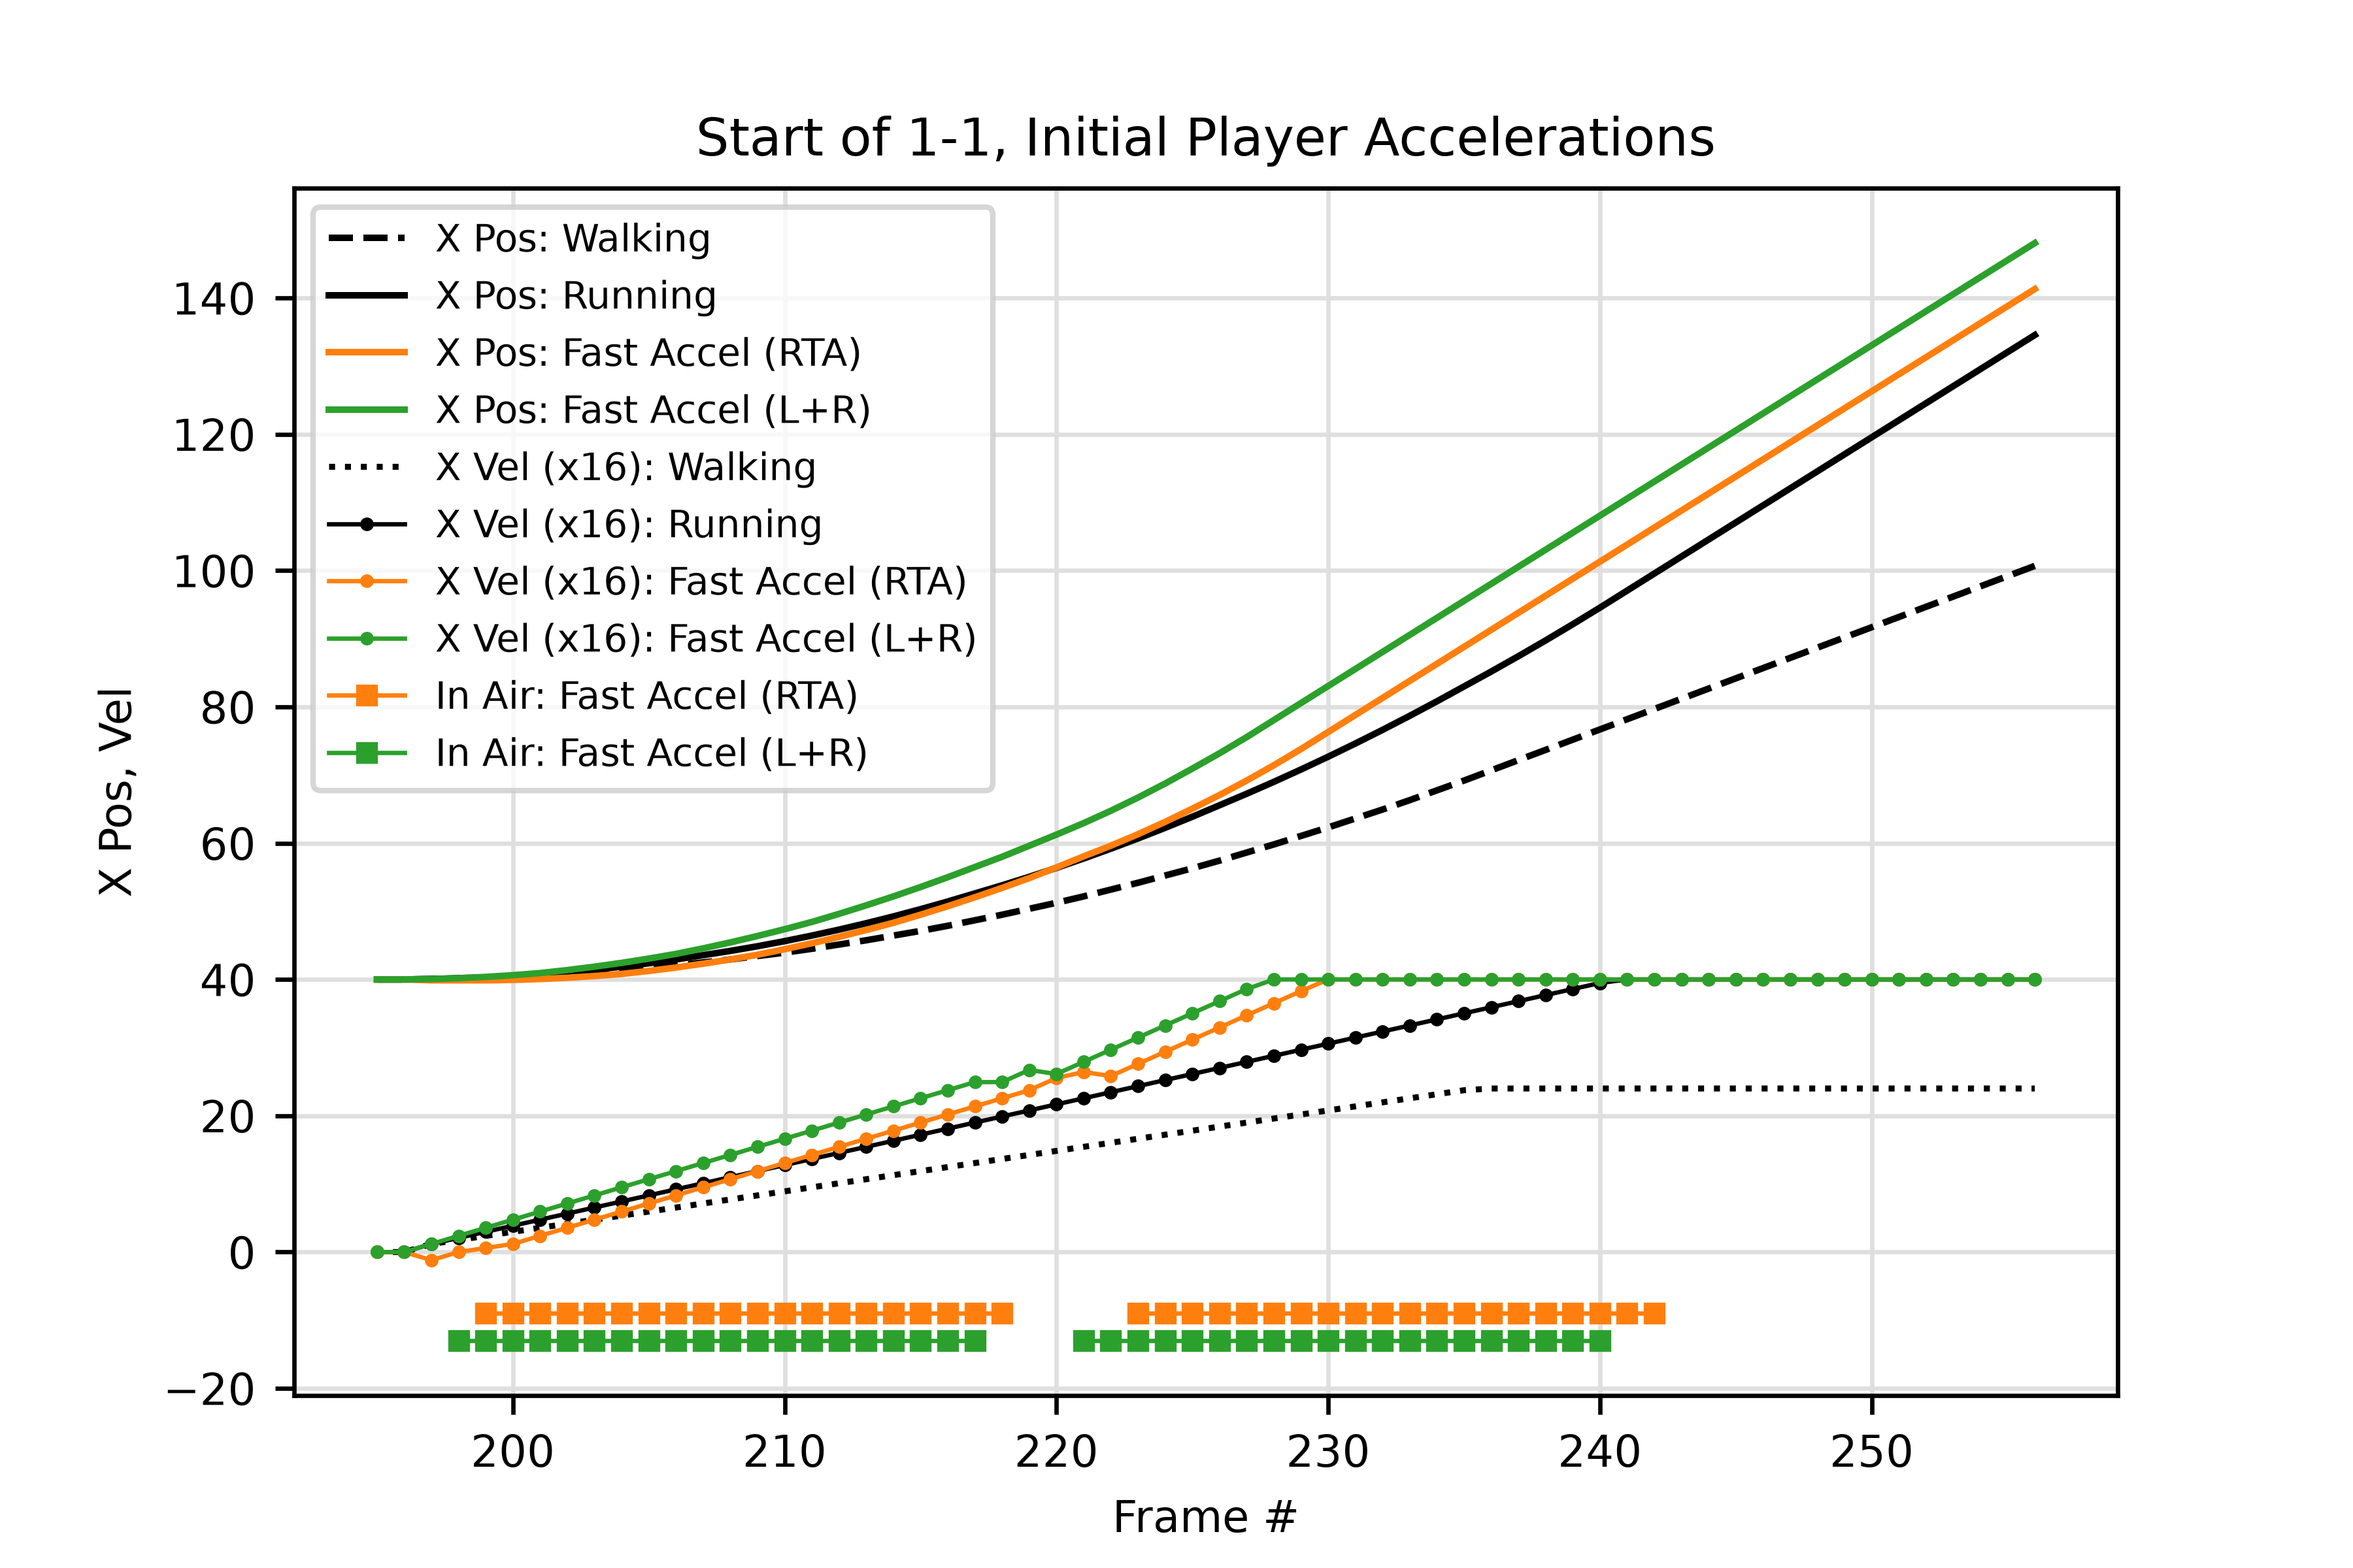
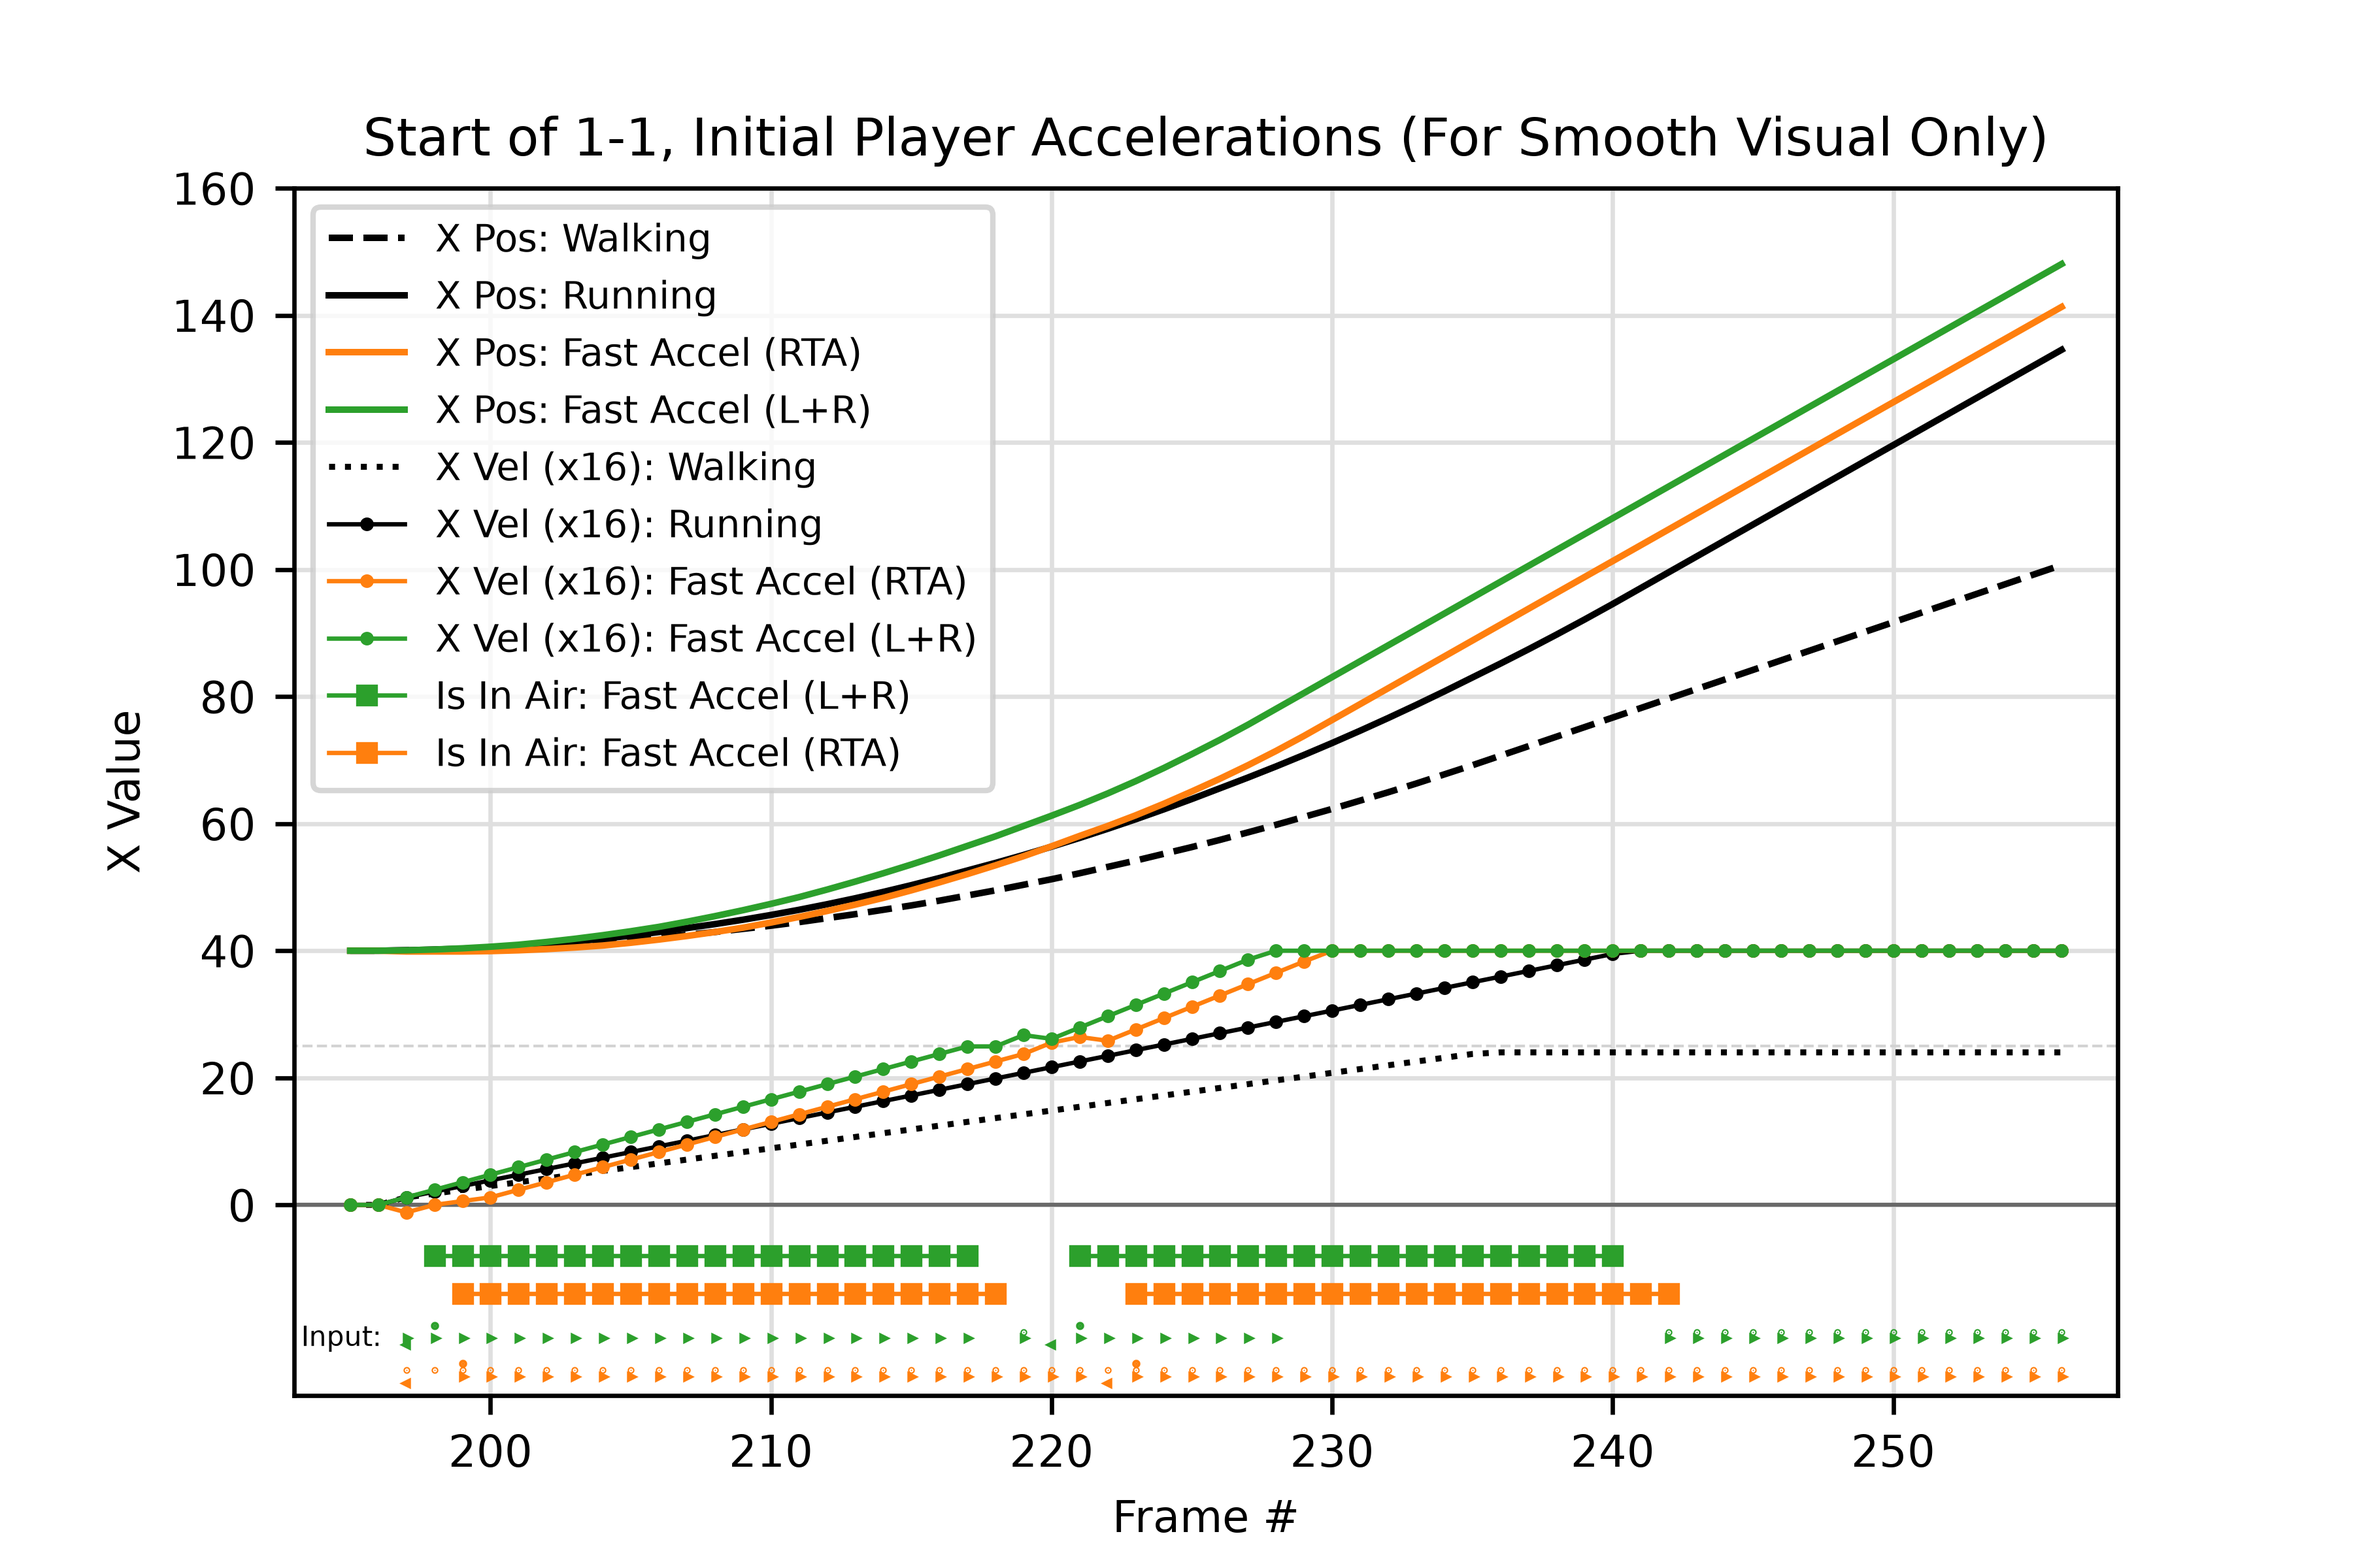
Add more data to v2 plot

diff --git a/01_CollectKeyTasData/smb1_data_post-processor_v2.py b/01_CollectKeyTasData/smb1_data_post-processor_v2.py
@@ -54,8 +54,34 @@ RTA["InAir"] = RTA.PlayerState
 RTA.loc[RTA.InAir == 0, "InAir"] = float("nan")
 
 
+# Handle inputs for RTA
+RTA["APress"] = RTA.Input.str.contains("A").astype(float)
+RTA["BPress"] = RTA.Input.str.contains("B").astype(float)
+RTA["LPress"] = RTA.Input.str.contains("L").astype(float)
+RTA["RPress"] = RTA.Input.str.contains("R").astype(float)
+
+RTA.loc[RTA.APress == 0, "APress"] = float("nan")
+RTA.loc[RTA.BPress == 0, "BPress"] = float("nan")
+RTA.loc[RTA.LPress == 0, "LPress"] = float("nan")
+RTA.loc[RTA.RPress == 0, "RPress"] = float("nan")
+
+TAS["APress"] = TAS.Input.str.contains("A").astype(float)
+TAS["BPress"] = TAS.Input.str.contains("B").astype(float)
+TAS["LPress"] = TAS.Input.str.contains("L").astype(float)
+TAS["RPress"] = TAS.Input.str.contains("R").astype(float)
+
+TAS.loc[TAS.APress == 0, "APress"] = float("nan")
+TAS.loc[TAS.BPress == 0, "BPress"] = float("nan")
+TAS.loc[TAS.LPress == 0, "LPress"] = float("nan")
+TAS.loc[TAS.RPress == 0, "RPress"] = float("nan")
+
+
 # Plot
 plt.figure(dpi=600)
+
+# Reference lines
+plt.plot([0, 300], [0, 0], color="dimgray", linewidth=0.75)
+plt.plot([0, 300], [25, 25], color="lightgray", linestyle="--", linewidth=0.5)
 
 # Position
 plt.plot(
@@ -127,32 +153,107 @@ plt.plot(
 
 # Player State
 plt.plot(
-    RTA.Frame,
-    RTA.InAir - 10,
-    label="In Air: Fast Accel (RTA)",
-    color="tab:orange",
-    marker="s",
-    linewidth=0.8,
-    markersize=3,
-)
-plt.plot(
     TAS.Frame,
-    TAS.InAir - 14,
-    label="In Air: Fast Accel (L+R)",
+    TAS.InAir - 9,
+    label="Is In Air: Fast Accel (L+R)",
     color="tab:green",
     marker="s",
     linewidth=0.8,
     markersize=3,
 )
+plt.plot(
+    RTA.Frame,
+    RTA.InAir - 15,
+    label="Is In Air: Fast Accel (RTA)",
+    color="tab:orange",
+    marker="s",
+    linewidth=0.8,
+    markersize=3,
+)
+
+# Button Presses
+plt.text(193.25, -22.2, "Input:", fontsize=5)
+
+# Button Presses TAS
+plt.plot(
+    TAS.Frame,
+    TAS.APress - 20 - 0,
+    color="tab:green",
+    marker=".",
+    linestyle="none",
+    markersize=1,
+)
+plt.plot(
+    TAS.Frame,
+    TAS.BPress - 20 - 1,
+    color="tab:green",
+    marker=".",
+    linestyle="none",
+    markersize=0.5,
+)
+plt.plot(
+    TAS.Frame,
+    TAS.RPress - 20 - 2,
+    color="tab:green",
+    marker=">",
+    linestyle="none",
+    markersize=0.5,
+)
+plt.plot(
+    TAS.Frame,
+    TAS.LPress - 20 - 3,
+    color="tab:green",
+    marker="<",
+    linestyle="none",
+    markersize=0.5,
+)
+
+# Button Presses RTA
+plt.plot(
+    RTA.Frame,
+    RTA.APress - 26 - 0,
+    color="tab:orange",
+    marker=".",
+    linestyle="none",
+    markersize=1,
+)
+plt.plot(
+    RTA.Frame,
+    RTA.BPress - 26 - 1,
+    color="tab:orange",
+    marker=".",
+    linestyle="none",
+    markersize=0.5,
+)
+plt.plot(
+    RTA.Frame,
+    RTA.RPress - 26 - 2,
+    color="tab:orange",
+    marker=">",
+    linestyle="none",
+    markersize=0.5,
+)
+plt.plot(
+    RTA.Frame,
+    RTA.LPress - 26 - 3,
+    color="tab:orange",
+    marker="<",
+    linestyle="none",
+    markersize=0.5,
+)
 
 
 # Format plot
-plt.title("Start of 1-1, Initial Player Accelerations")
+plt.title("Start of 1-1, Initial Player Accelerations (For Smooth Visual Only)")
 plt.xlabel("Frame #")
-plt.ylabel("X Pos, Vel")
+plt.ylabel("X Value")
 plt.legend()
 plt.legend(fontsize=7)
 plt.grid(color="#dfdfdf")
+
+plt.xlim((193, 258))
+plt.ylim((-30, 160))
+plt.yticks(range(0, 180, 20))
 
 # Save
 plt.savefig("Output_Plot.png")
